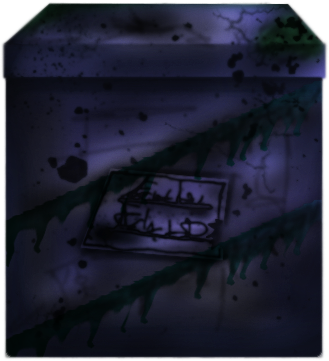
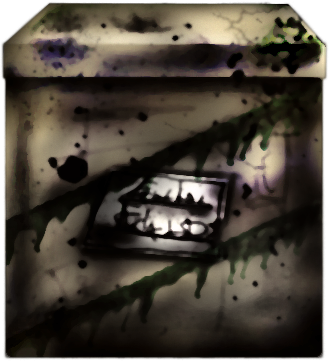
Diverse Verbesserungen &  karton verschönert
u.a Collision Theodor verkleinert.

diff --git a/VergissMeinNicht/VergissMeinNicht/Screens/Flur.cs b/VergissMeinNicht/VergissMeinNicht/Screens/Flur.cs
@@ -104,14 +104,21 @@ namespace VergissMeinNicht.Screens
                 this.SolidCollisions.AxisAlignedRectangles.Remove(KisteList[i].Collision);
                 this.SolidCollisions.AxisAlignedRectangles.Add(KisteList[i].Collision);
             }
+
+            //Lochfallen
+            for (int i = HoleList.Count - 1; i > -1; i--)
+                if (PlatformerCharacterBase.getInstance().Collision.CollideAgainst(HoleList[i].Collision))
+                    FallInHole();
+
         }
 
         void VisibilityInit()
         {
+            HoleInstance.SpriteInstance.Visible = true;
             if (Manager.CollisionsVisible)
             {
                 for (int i = KisteList.Count - 1; i > -1; i--)
-                    KartonList[i].Collision.Visible = true;
+                    KisteList[i].Collision.Visible = true;
                 for (int i = KartonList.Count - 1; i > -1; i--)
                     KartonList[i].Collision.Visible = true;
             }
@@ -128,7 +135,5 @@ namespace VergissMeinNicht.Screens
             }
             else UI_Button_EInstance.SpriteInstanceVisible = false;
         }
-
-
 	}
 }

diff --git a/VergissMeinNicht/VergissMeinNicht/Screens/LevelBase.cs b/VergissMeinNicht/VergissMeinNicht/Screens/LevelBase.cs
@@ -223,8 +223,21 @@ namespace VergissMeinNicht.Screens
                 UI_Button_EInstance.SpriteInstanceVisible = false;
                 DoorOpen = false;
             }
-            
+        }
 
+        public void FallInHole()
+        {
+            //SolidCollisions.AxisAlignedRectangles.Remove(Boden);  
+            Manager.EnableKey_Down = false;
+            Manager.EnableKey_Up = false;
+
+            Boden.Y = -500;
+            Manager.CharacterFallingInHole = true;
+
+            if (PlatformerCharacterBase.getInstance().DirectionFacing == PlatformerCharacterBase.LeftOrRight.Left)
+                PlatformerCharacterBase.getInstance().SpriteInstance.CurrentChainName = "FallLeft";
+            else
+                PlatformerCharacterBase.getInstance().SpriteInstance.CurrentChainName = "FallRight";
         }
         
         public void CollisionVisibilityOn()
